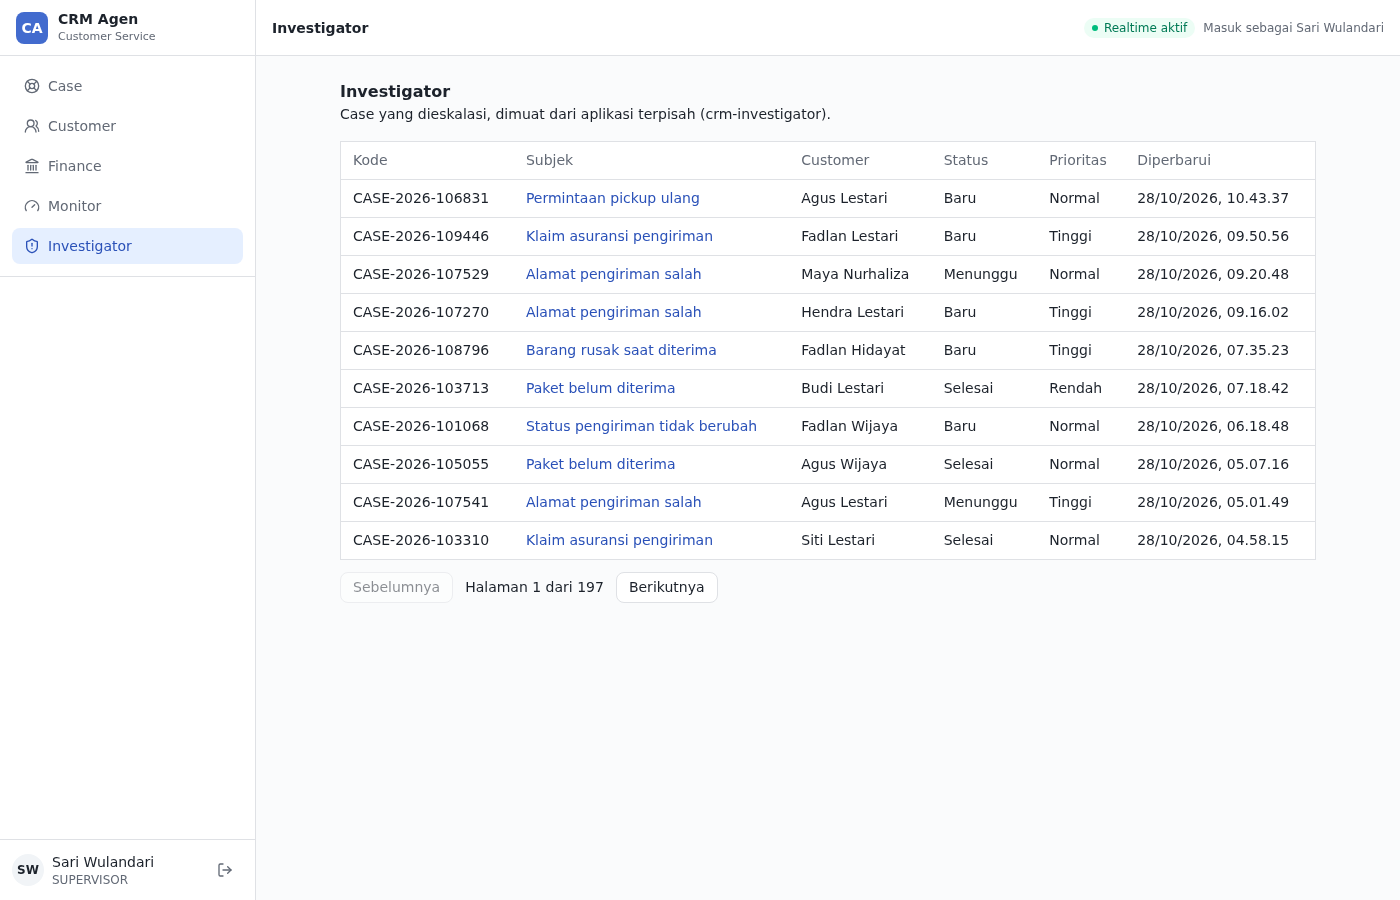
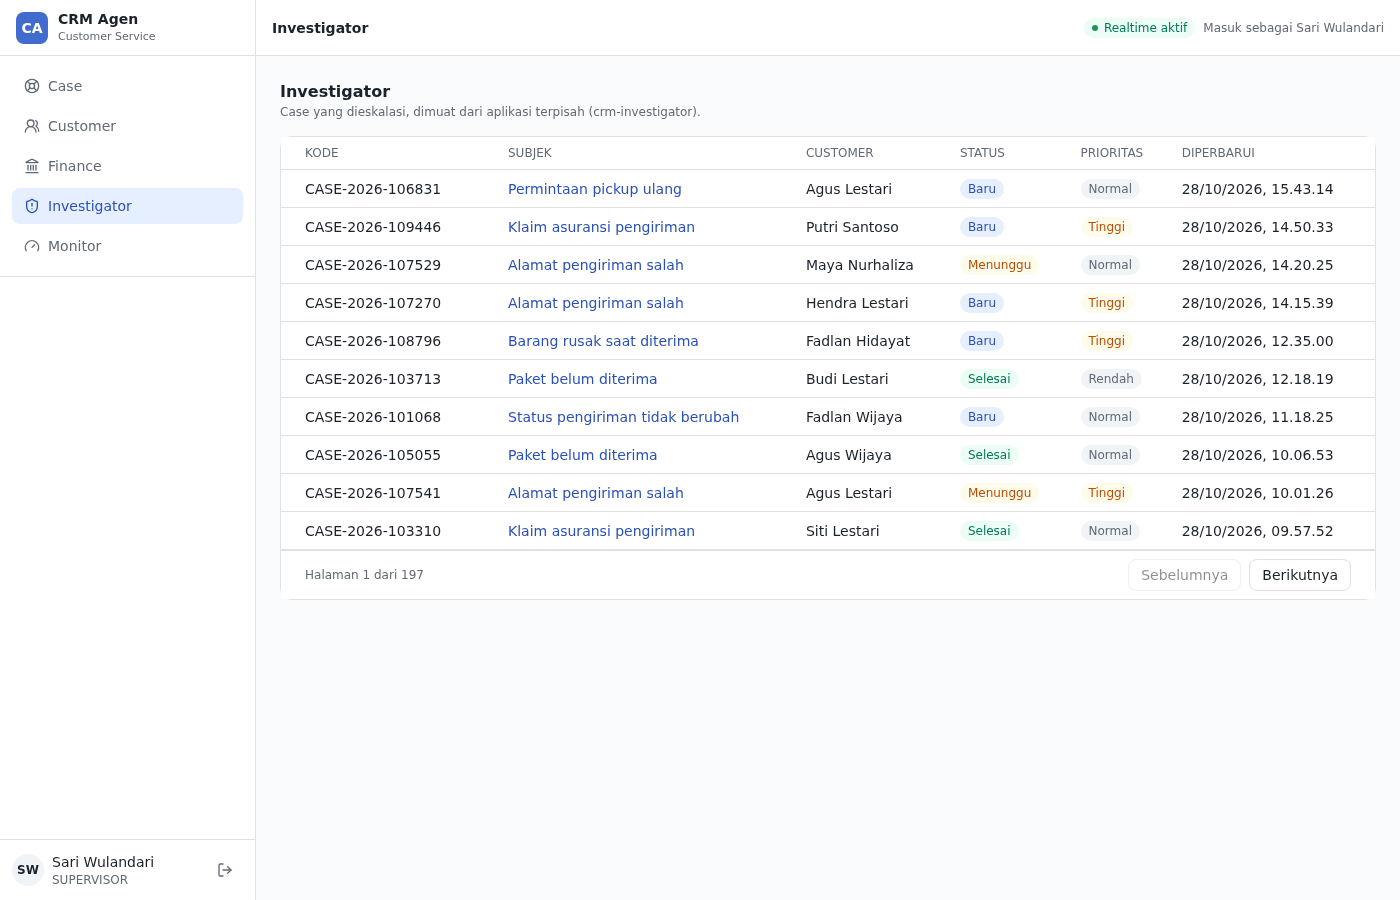
docs: state that a remote cannot restyle itself on its own
Update the PoC doc for the shared UI package and refresh the screenshots.

Changed region(s): [[0.1843, 0.0933, 0.9829, 0.6844], [0.0, 0.1867, 0.1843, 0.3111], [0.3379, 0.6533, 0.3686, 0.6844]]

diff --git a/docs/poc/micro-frontend.md b/docs/poc/micro-frontend.md
@@ -76,19 +76,19 @@ Data lives in page memory, so a reload resets it. Stay in the app by clicking wh
 
 ## What it proves
 
-| Claim                                                                 | Evidence                                                                                                                            |
-| --------------------------------------------------------------------- | ----------------------------------------------------------------------------------------------------------------------------------- |
-| Separate apps plug modules into the console at runtime                | Each remote is built and served on its own; the host loads its `remoteEntry.js` in the browser                                      |
-| Remotes appear in the navigation through the existing module contract | Each remote exports a module definition (id, label key, icon, path, permission)                                                     |
-| One React, one session, one `QueryClient`, one i18n instance          | Remote pages use hooks, show the signed-in user, and write to the host cache; no React chunk is downloaded per remote               |
-| A remote can ship on its own                                          | Change a remote, rebuild only that app, reload the host: the change shows, the host is untouched                                    |
-| Different teams see different things                                  | See the role matrix below, including direct URLs                                                                                    |
-| A remote can own routes under its prefix                              | Investigator has a list at `/remote/investigator` and details at `/remote/investigator/case/<id>`; deep links survive a hard reload |
-| Remotes use the host's API client                                     | Same session, CSRF handling, and PII masking as built-in modules; no second client                                                  |
-| Remotes and host can open each other's pages                          | `openHostPath` goes from a remote to a host path (Case, filtered lists); Case links into the remotes through the menu               |
-| Failures are contained                                                | Stop one remote: the others and the host keep working. Stop all: the host works, remote paths show "Modul tidak tersedia"           |
-| The host's session handling covers remotes                            | A 401 on a remote's query sends the user to `/login?redirect=/remote/...`; signing out clears the remotes' cached data              |
-| The menu is stable                                                    | Remotes load in parallel but register in the configured order, so the menu does not depend on which answered first                  |
+| Claim                                                                 | Evidence                                                                                                                                                                                                    |
+| --------------------------------------------------------------------- | ----------------------------------------------------------------------------------------------------------------------------------------------------------------------------------------------------------- |
+| Separate apps plug modules into the console at runtime                | Each remote is built and served on its own; the host loads its `remoteEntry.js` in the browser                                                                                                              |
+| Remotes appear in the navigation through the existing module contract | Each remote exports a module definition (id, label key, icon, path, permission)                                                                                                                             |
+| One React, one session, one `QueryClient`, one i18n instance          | Remote pages use hooks, show the signed-in user, and write to the host cache; no React chunk is downloaded per remote                                                                                       |
+| A remote can ship its logic and data on its own                       | Change a remote's logic, texts, or how it composes `@crm/ui` components, rebuild only that app, reload the host: the change shows, the host is untouched. **Not** its look: see "Visual independence" below |
+| Different teams see different things                                  | See the role matrix below, including direct URLs                                                                                                                                                            |
+| A remote can own routes under its prefix                              | Investigator has a list at `/remote/investigator` and details at `/remote/investigator/case/<id>`; deep links survive a hard reload                                                                         |
+| Remotes use the host's API client                                     | Same session, CSRF handling, and PII masking as built-in modules; no second client                                                                                                                          |
+| Remotes and host can open each other's pages                          | `openHostPath` goes from a remote to a host path (Case, filtered lists); Case links into the remotes through the menu                                                                                       |
+| Failures are contained                                                | Stop one remote: the others and the host keep working. Stop all: the host works, remote paths show "Modul tidak tersedia"                                                                                   |
+| The host's session handling covers remotes                            | A 401 on a remote's query sends the user to `/login?redirect=/remote/...`; signing out clears the remotes' cached data                                                                                      |
+| The menu is stable                                                    | Remotes load in parallel but register in the configured order, so the menu does not depend on which answered first                                                                                          |
 
 ### Role matrix (mock roles)
 
@@ -124,13 +124,17 @@ apps/crm-finance, crm-investigator, crm-monitor   remotes: expose ./module, add 
   paths are accepted, through the same `safeRedirectPath` that protects the login redirect). Remote
   links keep a real `href` so "open in a new tab" works.
 - **Shared singletons** (`react`, `react-dom`, `react-i18next`, `@tanstack/react-query`,
-  `@crm/auth`): the host and every remote declare the same list. Anything that holds state or
+  `@crm/auth`, `@crm/ui`): the host and every remote declare the same list. Anything that holds state or
   context must be shared, or hooks break and contexts split. `@crm/module-contract` is type-only,
   so it is never bundled or shared.
-- **Styling:** remotes have no Tailwind build. Their plain CSS reads the host's design tokens
-  (`--color-ink`, `--color-brand`, ...), so the look stays consistent.
-- **Failure handling:** loading has a 5 second timeout and any failure is logged with
-  `console.error`; the host starts without that remote.
+- **Styling:** a remote is built from `@crm/ui` components and writes no CSS and no Tailwind
+  utilities of its own. The host compiles the classes (it scans `packages/ui`), and `@crm/ui` is a shared
+  singleton, so component code and CSS always come from the same build. A remote that needs a layout
+  or a pattern the package lacks adds it to `packages/ui` (Stack, Inline, StatCard, SectionHeading,
+  Skeleton sizes, and a no-wrap table cell came from exactly this). Lint enforces the rest: no raw
+  controls and no palette colors in a remote.
+- **Failure handling:** loading has a 5 second timeout (20 in dev, where a remote is compiled on
+  first request) and any failure is logged with `console.error`; the host starts without that remote.
 
 ## Run it
 
@@ -182,7 +186,8 @@ Rules for a remote:
 - **Id and path:** a module whose id or `basePath` is already taken is ignored with a warning.
 - **i18n:** write only under your own module id. The merge uses `overwrite`, so a remote could
   replace a host text; nothing enforces the namespace.
-- **CSS:** one global namespace. Prefix every class with the module id.
+- **UI:** build screens from `@crm/ui` only. Write no CSS and no Tailwind utilities: a class the
+  host never compiled renders unstyled. If something is missing, add it to `packages/ui`.
 - **Query keys:** prefix your own with the module id. After a write, a remote that must refresh
   host views has to invalidate the host's keys itself (Investigator invalidates `['cases']`), which
   couples it to the host's key names. The host's own invalidations do not refresh a remote's view,
@@ -190,6 +195,12 @@ Rules for a remote:
 
 ## What it does not cover
 
+- **Visual independence.** A remote has no CSS of its own: it uses `@crm/ui`, shared as a singleton, and
+  the host's Tailwind build creates the styles, only for the classes it saw at build time. Opened alone,
+  a remote renders unstyled. A remote can recompose existing components freely, but a new component, a
+  new variant, or a design change in `@crm/ui` needs a new host build (and a release of the package).
+  So "a remote releases on its own" holds for logic and data, not for appearance. Presenting this as
+  full independence would overstate it.
 - **Production hosting.** A production host build has no mock backend, so signing in needs the real
   BFF. Remotes must be served over HTTPS with CORS allowing the host origin, and the CSP in
   `security-headers.inc` (`script-src 'self'`) must allow their origins. CI, Docker, and nginx are
@@ -197,8 +208,6 @@ Rules for a remote:
 - **Versioning.** Host and remotes share singletons by name only. A breaking change in a shared
   library (for example React) or in `@crm/module-contract` needs a coordinated release; nothing
   here enforces it. Changing the contract already forces every remote to change.
-- **Shared UI.** `components/ui` still lives inside `apps/crm-console`, so each remote re-implements
-  its small tables and buttons in plain CSS. Extract the primitives to a package first.
 - **Real-time.** The mock has no event stream (set `VITE_MOCK_EVENTS=true` to simulate it in the
   host), so remote views refresh on open or on a timer, not by push.
 - **Escalation scope.** Investigator lists every case in the escalation queue (all statuses), while
